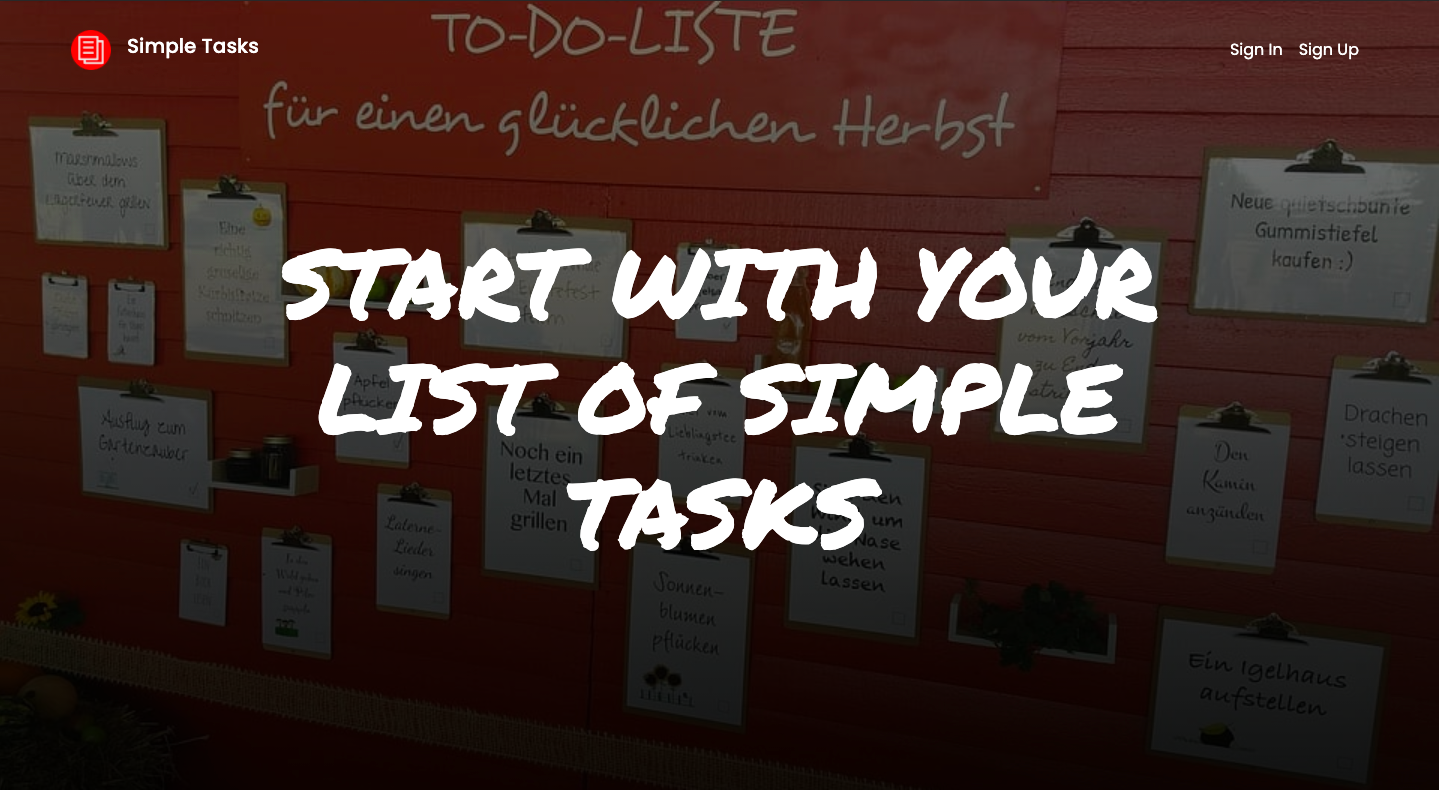
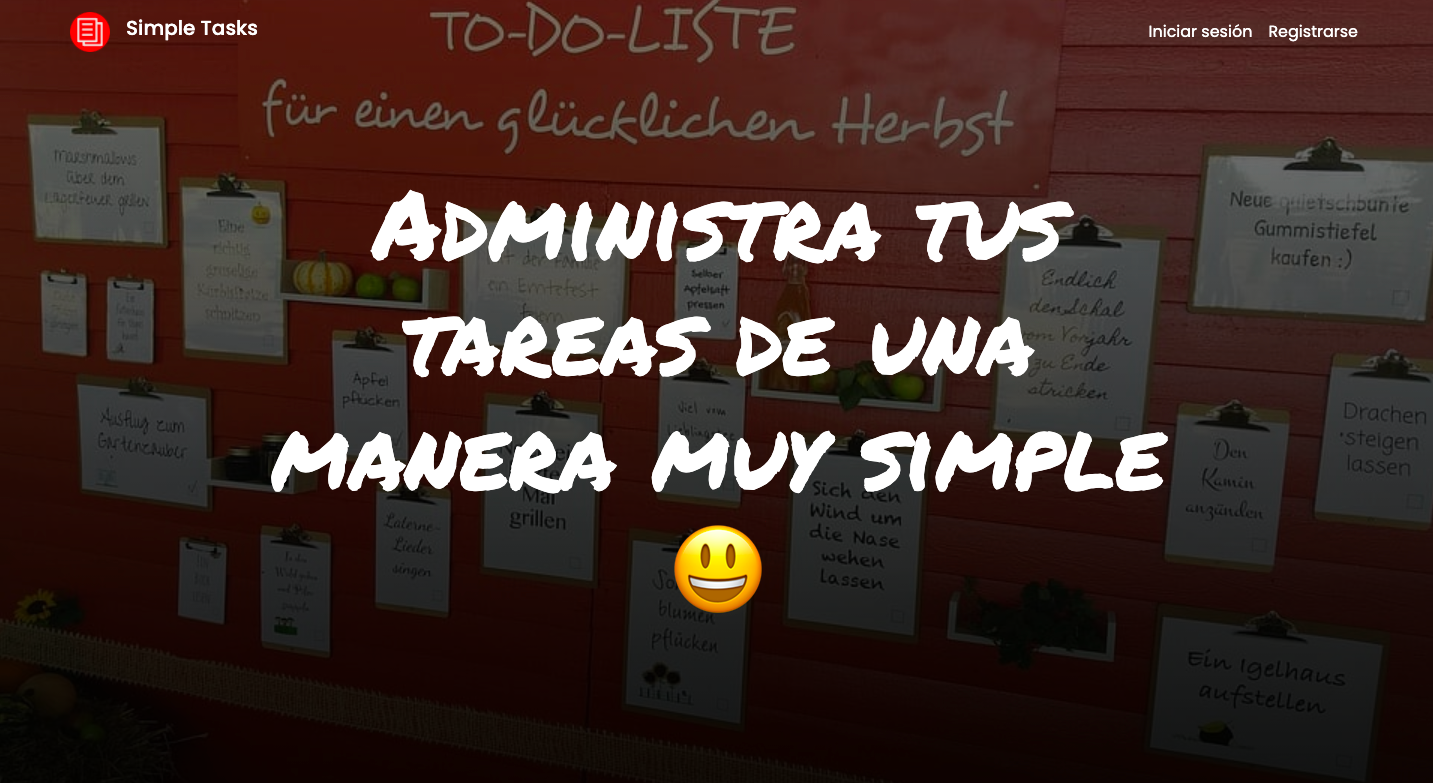
update

diff --git a/public/index.html b/public/index.html
@@ -86,39 +86,37 @@
 								>Registrarse</a
 							>
 						</li>
-						<li
-							class="nav-item dropdown d-flex align-items-center item-user-not-exists"
-							style="display: none"
-						>
+
+						<li class="nav-item dropdown item-user-not-exists" style="display: none">
 							<a
-								class="nav-link dropdown-toggle item-user-not-exists"
+								class="nav-link dropdown-toggle"
 								href="#"
-								id="navbarDropdownMenuLink"
+								id="navbarDarkDropdownMenuLink"
 								role="button"
 								data-bs-toggle="dropdown"
 								aria-expanded="false"
 							>
-								<h6 class="nav-user-name item-user-not-exists">user name</h6>
+								<div class="d-flex align-items-center justify-content-between">
+									<h6 class="nav-user-name item-user-not-exists">user name</h6>
+									&nbsp; &nbsp;
+									<img
+										src="./images/img-profile.png"
+										alt="Image profile"
+										width="50"
+										height="auto"
+										class="d-inline-block align-top"
+										id="item-img-profile"
+									/>
+								</div>
 							</a>
 							<ul
-								class="dropdown-menu"
-								aria-labelledby="navbarScrollingDropdown"
-								aria-labelledby="navbarDropdownMenuLink"
+								class="dropdown-menu dropdown-menu-dark"
+								aria-labelledby="navbarDarkDropdownMenuLink"
 							>
-								<li id="item-logout">
-									<a class="dropdown-item item-user-not-exists" href="#">Cerrar sesión</a>
-								</li>
+								<a class="dropdown-item item-user-not-exists" id="item-logout" href="#"
+									>Cerrar sesión</a
+								>
 							</ul>
-						</li>
-						<li class="nav-item item-user-not-exists" style="display: none">
-							<img
-								src="./images/img-profile.png"
-								alt="Image profile"
-								width="50"
-								height="auto"
-								class="d-inline-block align-top"
-								id="item-img-profile"
-							/>
 						</li>
 					</ul>
 				</div>
@@ -127,7 +125,7 @@
 
 		<div class="container mt-5 container-message">
 			<h4 class="title-banner-home text-center text-white">
-				Administra tus tareas de una manera muy simple 😃
+				Administra tus tareas de una manera muy simple ✏🗒
 			</h4>
 		</div>
 
@@ -151,6 +149,7 @@
 			<!--LIST TASK-->
 			<div class="container">
 				<div class="container-grid-Tasks">
+					<div class="container container-message-tasks-empty"></div>
 					<div class="item-grid">
 						<div class="card h-100 tasks-card">
 							<div class="card-header bg-primary">
@@ -370,7 +369,7 @@
 								/>
 							</div>
 							<div class="d-grid gap-2">
-								<button type="submit" class="btn btn-primary" id="btn-signup">Registrarse</button>
+								<button type="submit" class="btn btn-dark" id="btn-signup">Registrarse</button>
 								<div class="d-flex justify-content-space_between align-items-center">
 									<hr />
 									&nbsp;
@@ -378,11 +377,11 @@
 									&nbsp;
 									<hr />
 								</div>
-								<button id="btn-signin-google" class="btn btn-info">
-									<i class="fas fa-google"></i> Google
+								<button id="btn-signin-google" class="btn btn-light btn-outline-dark">
+									<i class="fab fa-google"></i> &nbsp; Google
 								</button>
-								<button id="btn-signin-fb" class="btn btn-primary">
-									<i class="fas fa-facebook"></i> Facebook
+								<button id="btn-signin-fb" class="btn btn-primary btn-outline-primary text-white">
+									<i class="fab fa-facebook"></i> &nbsp; Facebook
 								</button>
 							</div>
 						</form>
@@ -431,7 +430,7 @@
 								/>
 							</div>
 							<div class="d-grid gap-2">
-								<button type="submit" id="btn-signin-emailpass" class="btn btn-secondary">
+								<button type="submit" id="btn-signin-emailpass" class="btn btn-dark">
 									Iniciar sesión
 								</button>
 								<div class="d-flex justify-content-space_between align-items-center">
@@ -441,11 +440,11 @@
 									&nbsp;
 									<hr />
 								</div>
-								<button id="btn-signin-google" class="btn btn-info">
-									<i class="fas fa-google"></i> Google
+								<button id="btn-signin-google" class="btn btn-light btn-outline-dark">
+									<i class="fab fa-google"></i> &nbsp; Google
 								</button>
-								<button id="btn-signin-fb" class="btn btn-primary">
-									<i class="fas fa-facebook"></i> Facebook
+								<button id="btn-signin-fb" class="btn btn-primary btn-outline-primary text-white">
+									<i class="fab fa-facebook"></i> &nbsp; Facebook
 								</button>
 							</div>
 						</form>

diff --git a/public/js/setTasks.js b/public/js/setTasks.js
@@ -4,6 +4,7 @@ const validateTask = (tasks) => {
 
 	if (tasks.length) {
 		wrapperMessage.style.display = "none";
+		wrapperMessageTasksEmpty.style.display = "none";
 
 		const normalTask_ = tasks.filter((task) => task.priority === "normal");
 		setTasks(normalTask_, "#normal-tasks");
@@ -17,7 +18,9 @@ const validateTask = (tasks) => {
 		const completeTasks_ = tasks.filter((task) => task.priority === "complete");
 		setTasks(completeTasks_, "#complete-tasks");
 	} else {
-		return null;
+		wrapperMessageTasksEmpty.style.display = "flex";
+		wrapperMessageTasksEmpty.innerHTML = `<h4 class="text-center text-white">
+		Aun no tienes tareas registradas 🙄 <br/> comienza agregando algunos 😉 </h4>`;
 	}
 };
 
@@ -30,7 +33,9 @@ const setTasks = (tasksList, idWrapper) => {
 			<div class="card custom-card-task text-white ${priorityColor(task.priority)} h-100">
 				<div class="card-header d-flex justify-content-between">
 						<div class="col-md-8 d-flex justify-content-start align-items-center">
-						<h6 class="text-card-create-at">${new Date(task.createAt.toDate()).toLocaleString()}</h6>
+						<h6 class="text-card-create-at fw-bold">${new Date(
+							task.createAt.toDate()
+						).toLocaleString()}</h6>
 						</div>
 						<div class="col-md-4 d-flex justify-content-end">
 							<i class="fas fa-edit m-1 fs-5 item-icon-edit" id="${task.id}"

diff --git a/public/css/style.css b/public/css/style.css
@@ -47,6 +47,11 @@ hr {
 	box-sizing: border-box;
 }
 
+.full-width {
+	width: 100%;
+	box-sizing: border-box;
+}
+
 .item-icon-edit:hover,
 .item-icon-edit:active {
 	color: #ffffff;
@@ -112,7 +117,7 @@ hr {
 
 .container-grid-Tasks {
 	width: 100%;
-	height: 74vh;
+	height: 70vh;
 	display: grid;
 	margin: 1rem 0 0 0;
 	grid-template-columns: repeat(4, 1fr);
@@ -122,6 +127,7 @@ hr {
 	padding: 10px;
 	border-radius: 7px;
 	overflow-x: auto;
+	position: relative;
 }
 
 @media (max-width: 900px) {
@@ -166,4 +172,17 @@ hr {
 		width: 95%;
 		font-size: 3rem;
 	}
+}
+
+.container-message-tasks-empty {
+	display: flex;
+	justify-content: center;
+	align-items: center;
+	position: absolute;
+	top: 0;
+	bottom: 0;
+	left: 0;
+	right: 0;
+	display: none;
+	z-index: 1;
 }

diff --git a/public/js/logout.js b/public/js/logout.js
@@ -8,7 +8,8 @@ btnLogout.addEventListener("click", (e) => {
 		.then(() => {
 			console.log("signOut success");
 			contentAuthUser.style.display = "none";
-			wrapperMessage.innerHTML = `<h4 class='title-banner-home text-center text-white'>START WITH YOUR LIST OF SIMPLE TASKS</h4>`;
+			wrapperMessageTasksEmpty.style.display = "none";
+			wrapperMessage.innerHTML = `<h4 class='title-banner-home text-center text-white'>Administra tus tareas de una manera muy simple ✏🗒</h4>`;
 			validateTask([]);
 			window.location.reload();
 		})

diff --git a/public/js/authentication.js b/public/js/authentication.js
@@ -151,7 +151,7 @@ auth.onAuthStateChanged((user) => {
 	} else {
 		validateTask([]);
 		contentAuthUser.style.display = "none";
-		wrapperMessage.innerHTML = `<h4 class='title-banner-home text-center text-white'>Administra tus tareas de una manera muy simple 😃</h4>`;
+		wrapperMessage.innerHTML = `<h4 class='title-banner-home text-center text-white'>Administra tus tareas de una manera muy simple ✏🗒 </h4>`;
 		globalData["user"] = null;
 		console.error("Auth: signin no found:", user);
 	}

diff --git a/public/js/initialization.js b/public/js/initialization.js
@@ -1,5 +1,6 @@
 const contentAuthUser = document.querySelector("#content-auth-user");
 const wrapperMessage = document.querySelector(".container-message");
+const wrapperMessageTasksEmpty = document.querySelector(".container-message-tasks-empty");
 
 //Globals
 let globalData = {
